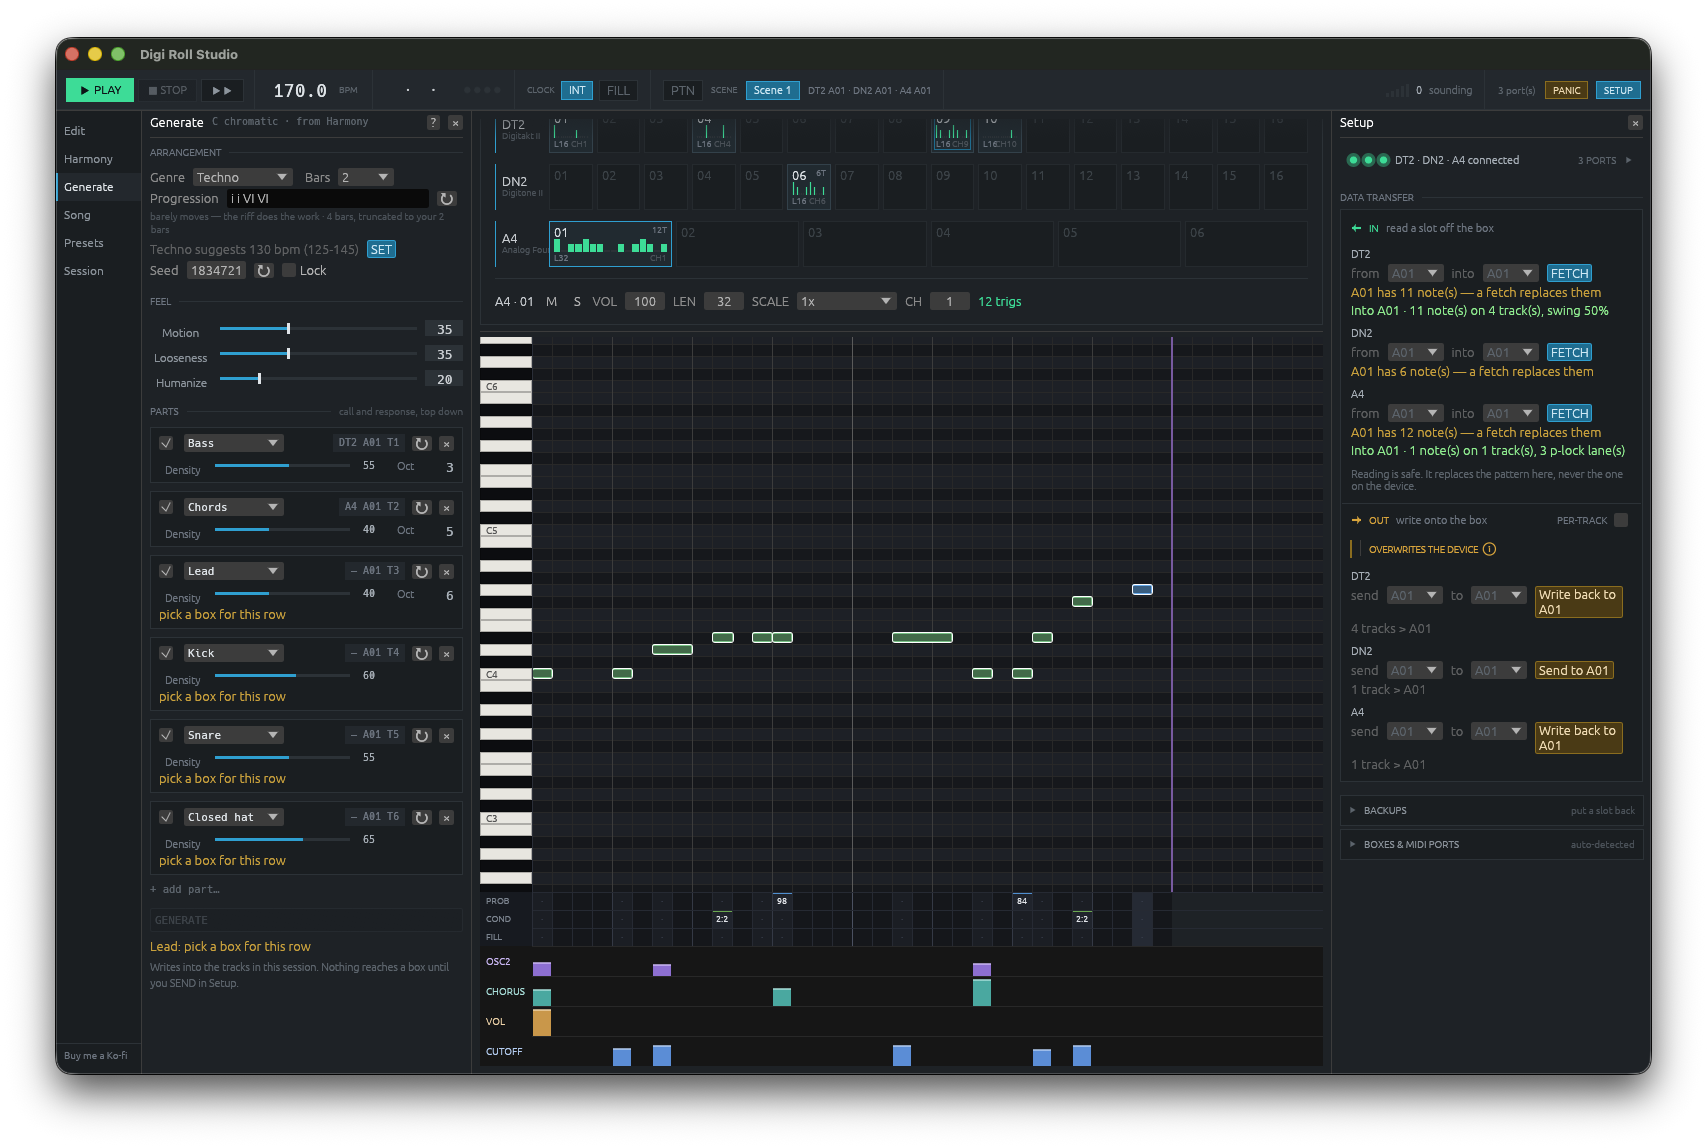
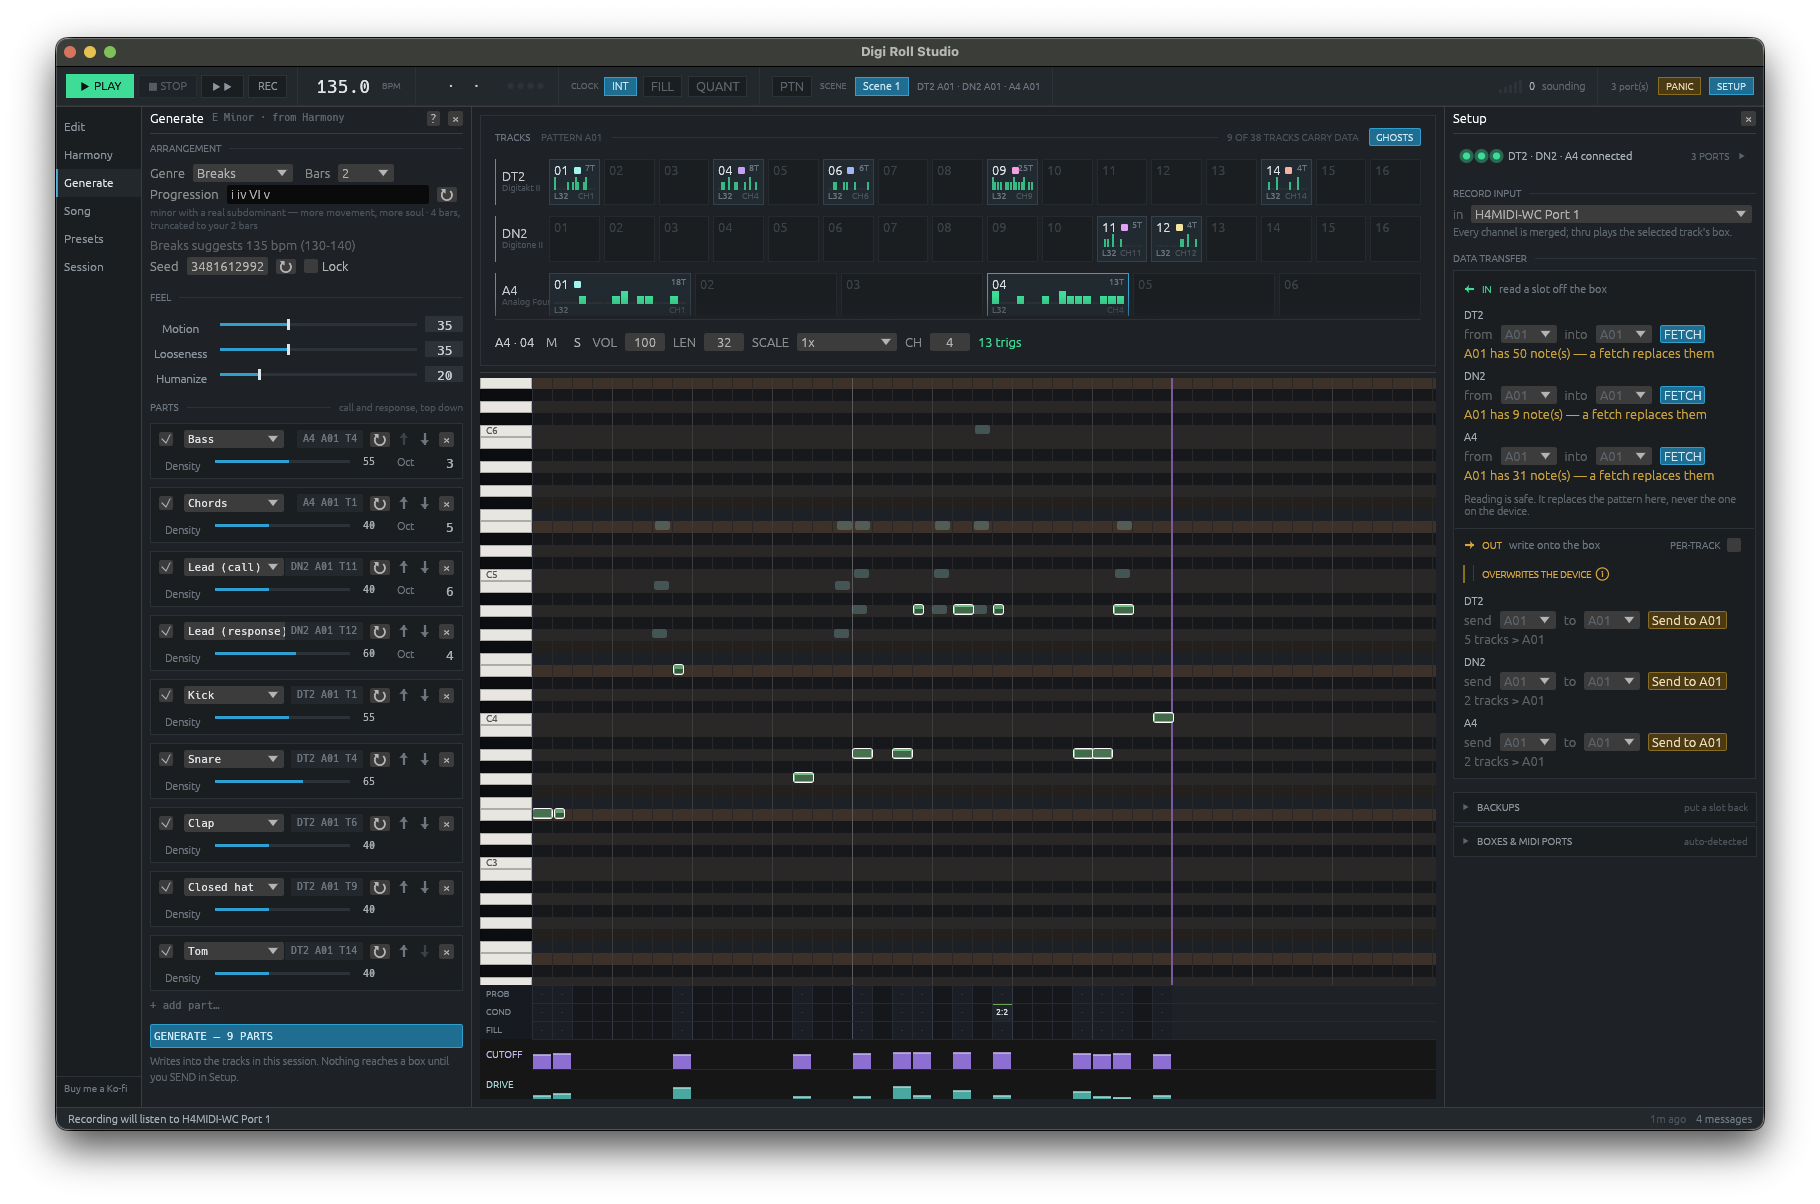
Show the site a fuller session — nine parts across three boxes
The hero shot was a half-filled Generate panel with three parts still
asking you to pick a box. The new one is nine parts placed and generated
across a Digitakt II, a Digitone II and an Analog Four, with the trig and
p-lock lanes carrying data underneath. Alt text follows the picture.

diff --git a/studio/index.html b/studio/index.html
@@ -457,7 +457,7 @@
 
           <div class="shot-slide" role="group" aria-roledescription="slide" aria-label="1 of 2: screenshot"
                data-caption="Three boxes, 38 tracks, one canvas.">
-            <img src="screenshot.png" alt="Digi-Roll Studio: the Generate panel on the left, 38 tracks across a Digitakt II, a Digitone II and an Analog Four in one session, a piano roll with trig and p-lock lanes under it, and the Setup panel on the right offering a fetch and a write for each of the three boxes." id="shot-img"
+            <img src="screenshot.png" alt="Digi-Roll Studio: the Generate panel on the left with nine breaks parts — bass, chords, call and response leads, kick, snare, clap, hat, tom — spread across a Digitakt II, a Digitone II and an Analog Four, 9 of those 38 tracks carrying data, a piano roll with the trig and p-lock lanes under it, and the Setup panel on the right offering a fetch and a send for each of the three boxes." id="shot-img"
                  onerror="this.style.display='none';document.getElementById('shot-fb').style.display='block'">
             <div class="shot-fallback" id="shot-fb">
               drop a screenshot next to this page as <code>screenshot.png</code>
